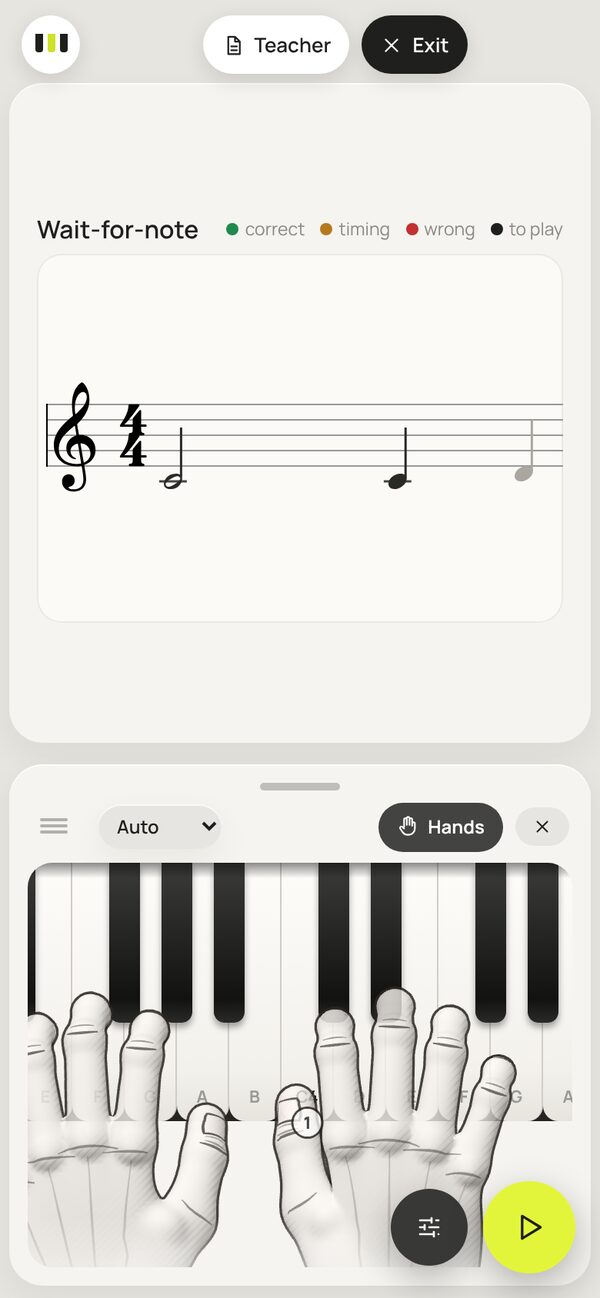
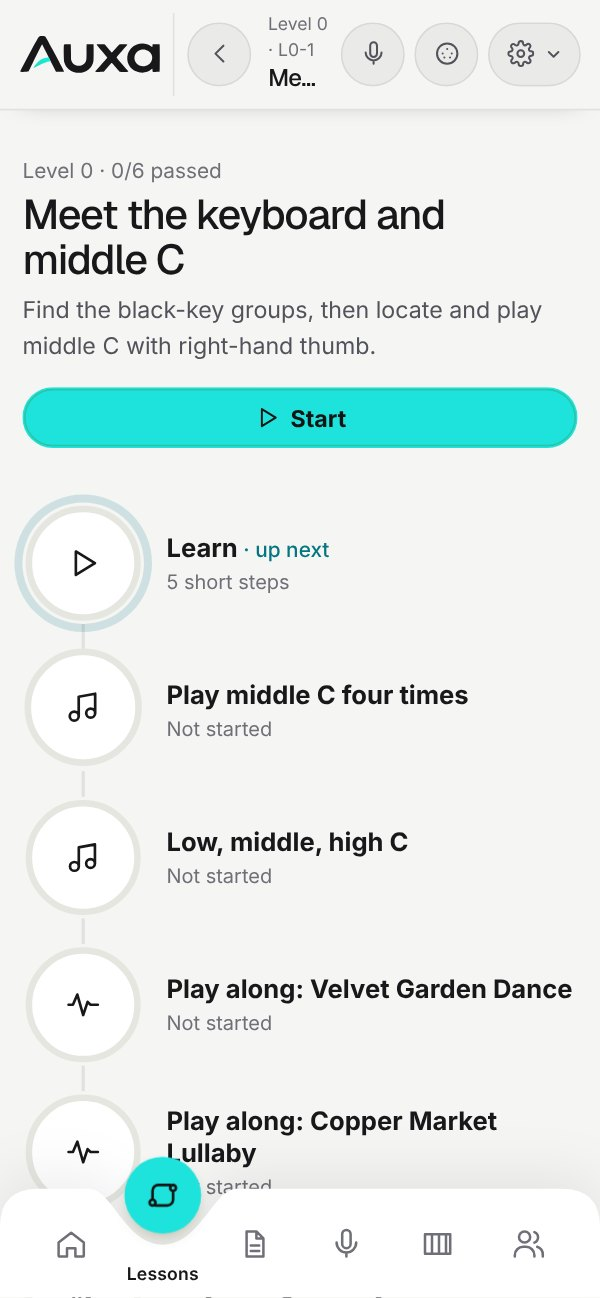
Full-width lesson hub, readable plan badges, aligned Setup, last lime colors gone, new homepage phone screens, plain-language plans
Claude-Session: https://claude.ai/code/session_01GMj1YQcUTnWEyb5PxExAgh

diff --git a/src/app-theme.css b/src/app-theme.css
@@ -471,7 +471,7 @@ html.theme-light .hub-badge { background: #2b2b2b; border-color: #f4f4f2; }
 /* ---------- the phone app's own start: onboarding, sign up, plans ---------- */
 .ob { position: fixed; inset: 0; z-index: 60; display: flex; flex-direction: column; background: radial-gradient(120% 70% at 80% 0%, rgba(30,227,220, .14), transparent 60%), var(--bg, #141414); color: var(--ink, #f2f2ef);
   padding: calc(var(--sat, 0px) + 18px) calc(var(--sar, 0px) + 22px) calc(var(--sab, 0px) + 18px) calc(var(--sal, 0px) + 22px); overflow-y: auto; }
-html.theme-light .ob { background: radial-gradient(120% 70% at 80% 0%, rgba(160, 190, 30, .18), transparent 60%), #f6f6f3; color: #141414; }
+html.theme-light .ob { background: radial-gradient(120% 70% at 80% 0%, rgba(10, 160, 170, .18), transparent 60%), #f6f6f3; color: #141414; }
 .ob-top { display: flex; align-items: center; justify-content: space-between; min-height: 40px; }
 .ob .lp-logo { display: inline-flex; align-items: center; gap: 10px; font-weight: 700; font-size: 19px; }
 .ob-skip, .ob-close, .ob-guest, .pw-fine button { background: none; border: 0; color: var(--muted); font: inherit; cursor: pointer; padding: 8px; }
@@ -525,7 +525,7 @@ html.theme-light .pw-perks li span { color: #5f7a00; }
 .pw-layer .ob { z-index: 80; }
 .ob .lp-mark { width: 30px; height: 30px; border-radius: 9px; background: #f4f4f0; display: inline-flex; gap: 2px; align-items: flex-start; justify-content: center; padding-top: 7px; box-sizing: border-box; }
 .ob .lp-mark i { width: 4px; height: 15px; border-radius: 2px; background: #141414; }
-.ob .lp-mark i:nth-child(3) { background: #9cbf00; }
+.ob .lp-mark i:nth-child(3) { background: #0a9fae; }
 html.theme-light .ob .lp-mark { background: #141414; }
 html.theme-light .ob .lp-mark i { background: #f4f4f0; }
 html.theme-light .ob .lp-mark i:nth-child(3) { background: var(--lime, #1ee3dc); }
@@ -563,7 +563,7 @@ html.theme-light .ob-art { background: rgba(255, 255, 255, .55); border-color: r
 .ob-art.keys { cursor: pointer; }
 .kb { position: absolute; left: 20px; right: 20px; bottom: 18px; top: 58px; display: flex; gap: 4px; }
 .kb .wk { flex: 1; background: linear-gradient(#fff, #ecece6); border-radius: 0 0 11px 11px; box-shadow: 0 4px 0 #c9c9bf; transition: transform .12s, background .12s, box-shadow .12s; transform-origin: top; }
-.kb .wk.down { background: linear-gradient(#e6ff6a, #c9e43c); box-shadow: 0 1px 0 #a4bd1c, 0 0 30px rgba(30,227,220, .55); transform: translateY(3px) scaleY(.985); }
+.kb .wk.down { background: linear-gradient(#8ef0ea, #1ee3dc); box-shadow: 0 1px 0 #0a9fae, 0 0 30px rgba(30,227,220, .55); transform: translateY(3px) scaleY(.985); }
 .kb .bk { position: absolute; top: 0; width: 9%; height: 58%; background: linear-gradient(#2c2c2a, #111); border-radius: 0 0 7px 7px; box-shadow: 0 3px 0 #000; z-index: 2; }
 .kb .fly { position: absolute; bottom: 40%; font-style: normal; font-size: 22px; color: var(--lime, #1ee3dc); z-index: 3; animation: obFly 1.4s ease-out forwards; text-shadow: 0 0 12px rgba(30,227,220, .6); }
 html.theme-light .kb .fly { color: #6d8a00; }
@@ -600,7 +600,7 @@ html.theme-light .wheel span.on { color: #5f7a00; }
 .stf .ln { position: absolute; left: 14px; right: 0; height: 1px; background: rgba(160, 160, 150, .45); }
 .stf .nt { position: absolute; width: 9px; height: 7px; border-radius: 50%; background: var(--lime, #1ee3dc); transform: rotate(-20deg); animation: obPop .4s cubic-bezier(.3, 1.6, .5, 1) both; }
 .stf.r1 .nt { background: #9be7da; } .stf.r2 .nt { background: #b9a8ff; } .stf.r3 .nt { background: #ffc46b; }
-html.theme-light .stf.r0 .nt { background: #7d9c00; }
+html.theme-light .stf.r0 .nt { background: #047683; }
 @keyframes obPop { from { opacity: 0; transform: rotate(-20deg) scale(0); } }
 .stf.r1, .stf.r2, .stf.r3 { animation: obWord .6s both; }
 .staffs .chip { position: absolute; right: 0; top: -26px; font-size: 11px; font-weight: 600; padding: 4px 9px; border-radius: 99px; background: var(--lime, #1ee3dc); color: #141414; animation: obPop2 .5s 1.3s cubic-bezier(.3, 1.6, .5, 1) both; }
@@ -617,7 +617,7 @@ html.theme-light .legal { background: #f6f6f3; color: #141414; }
 .legal .lp-logo { display: inline-flex; align-items: center; gap: 10px; font-weight: 700; font-size: 18px; }
 .legal .lp-mark { width: 28px; height: 28px; border-radius: 8px; background: #f4f4f0; display: inline-flex; gap: 2px; align-items: flex-start; justify-content: center; padding-top: 6px; box-sizing: border-box; }
 .legal .lp-mark i { width: 4px; height: 14px; border-radius: 2px; background: #141414; }
-.legal .lp-mark i:nth-child(3) { background: #9cbf00; }
+.legal .lp-mark i:nth-child(3) { background: #0a9fae; }
 .legal-tabs { display: flex; gap: 8px; overflow-x: auto; max-width: 760px; margin: 0 auto 22px; padding-bottom: 4px; }
 .legal-tabs a { flex: 0 0 auto; padding: 8px 14px; border-radius: 99px; border: 1px solid var(--hair); color: inherit; text-decoration: none; font-size: 14px; }
 .legal-tabs a.on { background: var(--lime, #1ee3dc); color: #141414; border-color: transparent; font-weight: 600; }
@@ -659,7 +659,7 @@ html.theme-light .strip-node.on .ring, html.theme-light .cal-day.today .cal-dot,
 html.theme-light .day.today i { box-shadow: 0 0 0 2px var(--lime-line); }
 html.theme-light .report.pass, html.theme-light .call { box-shadow: var(--shadow), 0 0 0 2px var(--lime-line) inset; }
 html.theme-light .drill-slot.now, html.theme-light .ob-choice.on, html.theme-light .drill-opt:hover:not(:disabled) { border-color: var(--lime-line); }
-html.theme-light .hub-node.next .ring, html.theme-light .pnode.next .ring { box-shadow: 0 0 0 5px rgba(127, 154, 0, .16); }
+html.theme-light .hub-node.next .ring, html.theme-light .pnode.next .ring { box-shadow: 0 0 0 5px rgba(4, 118, 131, .16); }
 html.theme-light .s2s-spin { border-top-color: var(--lime-line); }
 html.theme-light .coach-btn.on, html.theme-light .hub-badge.done { background: var(--lime); color: var(--on-lime); box-shadow: inset 0 0 0 1px rgba(0,0,0,.08); }
 /* lime buttons on white get a hairline so their edge is visible */
@@ -1015,7 +1015,7 @@ html.theme-dark .people { --pc-bg: #1f1f21; --pc-ink: #f4f4f5; --pc-ink2: #c4c4c
 
 /* wide screens: content sits in the middle instead of hugging the left edge */
 @media (min-width: 861px) {
-  .page.lesson > .hub { width: 100%; max-width: 980px; margin: clamp(10px, 5vh, 56px) auto 0; justify-items: center; text-align: center; }
+  .page.lesson > .hub { width: 100%; max-width: none; margin: clamp(10px, 5vh, 56px) auto 0; justify-items: center; text-align: center; }
   .page.lesson > .hub .hub-head { display: grid; justify-items: center; }
   .page.lesson > .hub .hub-head p { margin-inline: auto; }
   .page.lesson > .hub .hub-path { justify-content: safe center; max-width: 100%; }
@@ -1045,7 +1045,7 @@ html.theme-dark .people { --pc-bg: #1f1f21; --pc-ink: #f4f4f5; --pc-ink2: #c4c4c
 .ob-name:focus { outline: none; border-color: var(--lime, #1ee3dc); }
 .ob-build { align-items: center; text-align: center; }
 .ob-ring { width: 132px; height: 132px; border-radius: 50%; display: grid; place-items: center; position: relative; background: conic-gradient(var(--lime, #1ee3dc) var(--p), rgba(255,255,255,.08) 0); transition: background .6s; animation: obIn .5s ease both; }
-html.theme-light .ob-ring { background: conic-gradient(#8fb000 var(--p), rgba(0,0,0,.08) 0); }
+html.theme-light .ob-ring { background: conic-gradient(#0a9fae var(--p), rgba(0,0,0,.08) 0); }
 .ob-ring::before { content: ''; position: absolute; inset: 10px; border-radius: 50%; background: var(--bg1, #141414); }
 .ob-ring span { position: relative; font-size: 28px; font-weight: 700; letter-spacing: -.02em; }
 .ob-build-title { font-size: clamp(22px, 6vw, 30px) !important; }
@@ -1102,3 +1102,14 @@ html.theme-light .pi-back { background: rgba(245,245,243,.45); }
 .seg.level-grid button { display: flex; flex-direction: column; align-items: center; justify-content: center; gap: 2px; min-height: 48px; padding: 8px 10px; border-radius: 15px; font-size: 14px; font-weight: 600; color: var(--ink2); line-height: 1.2; text-align: center; }
 .seg.level-grid button small { display: inline-flex; align-items: center; gap: 4px; font-size: 11px; font-weight: 600; opacity: .7; }
 @media (max-width: 640px) { .seg.level-grid { grid-template-columns: 1fr 1fr; } }
+
+/* Plan badges on locked lessons: always readable */
+.pro-tag, html[class*=theme-] .pro-tag { background: #0b2a33 !important; color: #1ee3dc !important; border: 1px solid rgba(30,227,220,.35); }
+.pro-tag.plus, html[class*=theme-] .pro-tag.plus { background: #1ee3dc !important; color: #0b2a33 !important; border-color: transparent; }
+.lcard.locked:has(.pro-tag) .pro-tag { opacity: 1; filter: none; }
+
+/* Setup: tabs and cards share one centered column */
+@media (min-width: 861px) {
+  .setup-head, .setup-body { width: 100%; max-width: 860px; margin-inline: auto; box-sizing: border-box; }
+  .page > .setup-head, .setup-head { justify-content: space-between !important; }
+}

diff --git a/src/styles.css b/src/styles.css
@@ -62,7 +62,7 @@ select { border: 0; background: var(--white); border-radius: 999px; padding: 8px
 .id-card small { color: var(--muted); font-size: 11.5px; display: block; }
 .id-card b { font-size: 16px; font-weight: 600; display: block; line-height: 1.2; }
 .avatar { width: 62px; height: 62px; flex: none; border-radius: 18px; display: grid; place-items: center; color: var(--ink);
-  background: radial-gradient(120% 120% at 20% 10%, #fff 0, #f6f3d0 40%, #1ee3dc 100%); box-shadow: 0 6px 14px rgba(160,170,20,.25); }
+  background: radial-gradient(120% 120% at 20% 10%, #fff 0, #d9f8f6 40%, #1ee3dc 100%); box-shadow: 0 6px 14px rgba(10,160,170,.25); }
 .avatar.you { font-weight: 700; font-size: 15px; background: radial-gradient(120% 120% at 25% 15%, #fff 0, #f4e6dc 45%, #e9c8b4 100%); box-shadow: 0 6px 14px rgba(150,100,70,.2); }
 .metrics { display: flex; gap: 34px; align-items: flex-end; flex-wrap: wrap; min-width: 0; }
 .metric small { display: block; font-size: 11.5px; color: var(--muted); margin-bottom: 2px; }
@@ -267,8 +267,8 @@ div.next span { font-size: 12px; color: #cfcec8; }
 .key .mark { font-weight: 800; font-size: 15px; margin-bottom: 2px; position: relative; z-index: 4; }
 .key .kbd { font-size: 10px; color: #999; border: 1px solid #ccc; border-radius: 4px; padding: 0 3px; margin-bottom: 3px; position: relative; z-index: 4; }
 .key.black .kbd { color: #bbb; border-color: #555; }
-.key.white.target { background: linear-gradient(#fbfee0, #eef98a 70%, #1ee3dc); } .key.black.target { background: linear-gradient(#1ee3dc, #a9b81c); }
-.key.white.show { background: linear-gradient(#fdfdf0, #f2f8b8); } .key.black.show { background: linear-gradient(#b8c62a, #6f7a10); }
+.key.white.target { background: linear-gradient(#e8fdfb, #8ef0ea 70%, #1ee3dc); } .key.black.target { background: linear-gradient(#1ee3dc, #0aa5b4); }
+.key.white.show { background: linear-gradient(#f0fdfc, #c4f4f0); } .key.black.show { background: linear-gradient(#0aa5b4, #6f7a10); }
 .key.white.demo { background: linear-gradient(#e9fbf8, #99eadf); } .key.black.demo { background: linear-gradient(#2dd4bf, #0f766e); }
 .key.white.played { background: linear-gradient(#efeee9, #dddbd4); } .key.black.played { background: #555; }
 .key.white.correct { background: linear-gradient(#e7f7ec, #a8e2bd); color: var(--ok); } .key.black.correct { background: var(--ok); }
@@ -570,13 +570,13 @@ select.inst { font-size: 11.5px; padding: 2px 6px; border-radius: 8px; box-shado
 .pro-list li svg { flex-shrink: 0; margin-top: 3px; }
 .tier-grid { display: grid; grid-template-columns: repeat(auto-fit, minmax(230px, 1fr)); gap: 12px; }
 .tier { border: 1px solid var(--line, rgba(0,0,0,.1)); border-radius: 18px; padding: 14px; display: flex; flex-direction: column; gap: 10px; background: rgba(255,255,255,.5); }
-.tier.plus { border-color: #b7d94a; box-shadow: 0 0 0 1px #b7d94a inset; }
+.tier.plus { border-color: #0aa5b4; box-shadow: 0 0 0 1px #0aa5b4 inset; }
 .tier-head { display: flex; align-items: center; justify-content: space-between; font-size: 17px; }
-.tier .tag { font-size: 11px; background: #d4f06a; color: #1a1a1a; border-radius: 99px; padding: 2px 8px; }
+.tier .tag { font-size: 11px; background: #1ee3dc; color: #1a1a1a; border-radius: 99px; padding: 2px 8px; }
 .tier .pro-list { font-size: 13px; flex: 1; }
 .tier-buy { display: grid; gap: 6px; }
 .tier-buy .btn { justify-content: center; width: 100%; }
-.pro-tag.plus { background: #d4f06a; color: #1a1a1a; }
+.pro-tag.plus { background: #1ee3dc; color: #1a1a1a; }
 
 /* ---------- Landing ---------- */
 .landing { min-height: 100vh; max-width: 1120px; margin: 0 auto; padding: 18px 20px 40px; display: flex; flex-direction: column; gap: 56px; }
@@ -624,7 +624,7 @@ select.inst { font-size: 11.5px; padding: 2px 6px; border-radius: 8px; box-shado
 .auth-title { font-size: 20px; }
 .auth label { display: grid; gap: 6px; font-size: 13px; font-weight: 600; }
 .auth input { height: 46px; border-radius: 14px; border: 1px solid var(--line2); padding: 0 14px; font: inherit; font-weight: 400; font-size: 15px; background: #fff; width: 100%; box-sizing: border-box; }
-.auth input:focus { outline: 2px solid var(--lime2, #b7d94a); border-color: transparent; }
+.auth input:focus { outline: 2px solid var(--lime2, #0aa5b4); border-color: transparent; }
 .auth-pw { position: relative; display: block; }
 .auth-pw input { padding-right: 60px; }
 .auth-pw .link { position: absolute; right: 12px; top: 50%; transform: translateY(-50%); }

diff --git a/src/ui/Landing.tsx b/src/ui/Landing.tsx
@@ -7,6 +7,7 @@ import { useEffect, useRef, useState } from 'react';
 import { DashField } from './DashField';
 import { PLANS } from '../account/config';
 import { SignInForm } from './Account';
+import { PLAN_ITEMS, PLAN_WHO } from '../account/planCopy';
 import { Icon } from './Icon';
 import { useTheme, setTheme, type Theme } from './theme';
 
@@ -22,7 +23,7 @@ const FAQ: [string, string][] = [
   ['How does it hear me?', 'Your phone’s microphone. Auxa picks out the notes you play, even softly, and tells you right away which were right.'],
   ['I have never played before. Is that fine?', 'Yes. Level 0 starts with finding middle C. Every new key comes with short songs where the band plays and you add just that key.'],
   ['Can I learn to sing too?', 'Yes. The singing coach starts gentle and encouraging, and gets strict about pitch only when you ask it to.'],
-  ['What is free?', `Levels 0 to 2, the beginner songs and the Easy singing coach. Pro is ${price('pro') || 'monthly'}, or ${price('pass_pro') || 'a monthly pass'} by mobile money.`],
+  ['What is free?', `Everything you need to start: the basics, beginner songs and the Easy singing coach. Pro is ${price('pro') || 'monthly'}, or ${price('pass_pro') || 'a monthly pass'} by mobile money.`],
   ['Can I pay with Orange Money or Afrimoney?', 'Yes. Mobile money buys a one-month pass that never renews by itself. Cards renew monthly and you can cancel any time.'],
   ['Does it work offline?', 'Once opened, lessons keep working without data. Your progress syncs when you are back online.'],
 ];
@@ -89,9 +90,9 @@ export function Landing({ onStart, returning = false }: { onStart: () => void; r
           <h2>Start free. <em>Grow</em> when ready.</h2>
         </div>
         <div className="lp-plans">
-          <Plan name="Free" price="SLE 0" note="For good" items={['Levels 0 to 2', 'Beginner songs', 'Easy singing coach']} onPick={start} cta="Start free" />
-          <Plan name="Pro" price={price('pro')} note={`or ${price('pass_pro')} a month by mobile money`} items={['Levels 3 to 6', 'Every song', 'Standard singing coach', 'Progress on all devices']} onPick={() => setAuth('signup')} cta="Get Pro" />
-          <Plan name="Plus" price={price('plus')} note={`or ${price('pass_plus')} a month by mobile money`} items={['Everything in Pro', 'Levels 7 to 9', 'Pro singing coach', 'Your own scores and choir parts']} onPick={() => setAuth('signup')} cta="Get Plus" best />
+          <Plan name="Free" price="SLE 0" note="Free for good" who={PLAN_WHO.free} items={PLAN_ITEMS.free} onPick={start} cta="Start free" />
+          <Plan name="Pro" price={price('pro')} note={`or ${price('pass_pro')} a month by mobile money`} who={PLAN_WHO.pro} items={PLAN_ITEMS.pro} onPick={() => setAuth('signup')} cta="Get Pro" />
+          <Plan name="Plus" price={price('plus')} note={`or ${price('pass_plus')} a month by mobile money`} who={PLAN_WHO.plus} items={PLAN_ITEMS.plus} onPick={() => setAuth('signup')} cta="Get Plus" best />
         </div>
       </section>
 
@@ -206,12 +207,13 @@ function Step({ n, kicker, title, text, screen }: { n: string; kicker: string; t
   );
 }
 
-function Plan({ name, price: p, note, items, onPick, cta, best }: { name: string; price: string; note: string; items: string[]; onPick: () => void; cta: string; best?: boolean }) {
+function Plan({ name, price: p, note, who, items, onPick, cta, best }: { name: string; price: string; note: string; who: string; items: readonly string[]; onPick: () => void; cta: string; best?: boolean }) {
   return (
     <div className={`lp-plan ${best ? 'best' : ''}`}>
       <div className="lp-plan-top"><b>{name}</b>{best && <span className="lp-tag">Everything</span>}</div>
       <div className="lp-price">{p}</div>
       <small>{note}</small>
+      <p className="lp-plan-who">{who}</p>
       <ul>{items.map((x) => <li key={x}><Icon name="check" size={14} />{x}</li>)}</ul>
       <button className={`lp-btn ${best ? 'light' : 'ghost'}`} onClick={onPick}>{cta}</button>
     </div>

diff --git a/src/ui/Account.tsx b/src/ui/Account.tsx
@@ -9,6 +9,7 @@ import {
   adminGrant, adminPayments, adminSearch, adminSetRole, authMessage, closeUpgrade, endRecovery, openBillingPortal, openUpgrade, refreshProfile,
   deleteAccount, sendPasswordReset, signInWithEmail, signInWithGoogle, signInWithPassword, signOut, signUp, startCheckout, updatePassword, useAccount, useUpgrade, type Profile,
 } from '../account/store';
+import { FREE_LINE, PLAN_ITEMS } from '../account/planCopy';
 import { Icon } from './Icon';
 
 const fmtDate = (s: string | null) => (s ? new Date(s).toLocaleDateString(undefined, { day: 'numeric', month: 'short', year: 'numeric' }) : '');
@@ -184,10 +185,7 @@ export function AccountSheet({ onClose }: { onClose: () => void }) {
   );
 }
 
-export const PERKS: Record<'pro' | 'plus', string[]> = {
-  pro: ['Levels 3 to 6: two hands, rhythm, keys and scales, chords', 'The church musician path: hymns in four parts, chord symbols, keyboard and organ', 'The whole song library', 'Standard singing coach', 'Progress saved on all your devices'],
-  plus: ['Everything in Pro', 'Levels 7 to 12: sight-reading, play by ear, jazz, arranging', 'Strict and Pro singing coach, Sing to score in four parts', 'Your own MusicXML and choir (SATB) scores', 'Classes for teachers: assign lessons and follow every learner'],
-};
+export const PERKS: Record<'pro' | 'plus', readonly string[]> = { pro: PLAN_ITEMS.pro, plus: PLAN_ITEMS.plus };
 
 /** The paywall: Pro and Plus, each by card (Stripe, renews monthly) or mobile money (Monime, 1-month pass). */
 export function UpgradeSheet() {
@@ -226,7 +224,7 @@ export function UpgradeSheet() {
           })}
         </div>
         {err && <p className="err small">{err}</p>}
-        <p className="muted small">{a.user ? 'Card plans renew monthly and can be cancelled any time. Mobile money passes last 1 month and never auto-renew.' : 'Sign in first, then pick a plan.'} Levels 0 to 2, beginner songs and Easy singing stay free.</p>
+        <p className="muted small">{a.user ? 'Card plans renew monthly and can be cancelled any time. Mobile money passes last 1 month and never auto-renew.' : 'Sign in first, then pick a plan.'} {FREE_LINE}</p>
       </div>
     </div>
   );

diff --git a/src/ui/AppFlow.tsx b/src/ui/AppFlow.tsx
@@ -8,6 +8,7 @@ import { ACCOUNTS_ENABLED, MONIME_ENABLED, PLANS, type PlanOption } from '../acc
 import { TIER_NAME } from '../account/gate';
 import { closeUpgrade, refreshProfile, startCheckout, useAccount } from '../account/store';
 import { PERKS, SignInForm } from './Account';
+import { FREE_LINE } from '../account/planCopy';
 import { Icon } from './Icon';
 import { setGuest } from './Landing';
 import { INTEREST_LABEL, INTEREST_TRACK, saveProfile, type Experience, type Interest } from './learnerProfile';
@@ -326,7 +327,7 @@ export function Paywall({ reason, onClose }: { reason?: string | null; onClose: 
       </div>
       <div className="ob-foot col">
         <button className="btn ghost ob-free" onClick={onClose}>Continue with Free</button>
-        <p className="pw-fine">Free always includes Levels 0 to 2, beginner songs and Easy singing. Monthly plans renew until cancelled; passes never renew. <button onClick={() => void restore()} disabled={busy === 'restore'}>{busy === 'restore' ? 'Checking…' : 'Restore purchases'}</button> · <a href="#/terms">Terms</a> · <a href="#/privacy">Privacy</a> · <a href="#/subscriptions">Subscriptions and refunds</a></p>
+        <p className="pw-fine">{FREE_LINE} Monthly plans renew until cancelled; passes never renew. <button onClick={() => void restore()} disabled={busy === 'restore'}>{busy === 'restore' ? 'Checking…' : 'Restore purchases'}</button> · <a href="#/terms">Terms</a> · <a href="#/privacy">Privacy</a> · <a href="#/subscriptions">Subscriptions and refunds</a></p>
       </div>
     </div>
   );

diff --git a/src/account/planCopy.ts b/src/account/planCopy.ts
@@ -1,0 +1,32 @@
+// What each plan gives, in plain words: what you will be able to play, not level numbers.
+export const PLAN_WHO = {
+  free: 'Start from zero and play your first songs.',
+  pro: 'For playing real music with both hands, in church or anywhere.',
+  plus: 'For musicians who want to play anything they hear.',
+} as const;
+
+export const PLAN_ITEMS = {
+  free: [
+    'Find your way around the keys and read your first notes',
+    'Play simple melodies with each hand',
+    'Beginner songs with a coach that listens',
+    'Sing in tune with the Easy singing coach',
+  ],
+  pro: [
+    'Play with both hands: melody on top, chords underneath',
+    'Rhythm, keys, scales and the chords behind the songs you know',
+    'Accompany hymns and congregational singing',
+    'The full song library, with play-along backing',
+    'A sharper singing coach, and progress saved on every device',
+  ],
+  plus: [
+    'Everything in Pro',
+    'Play songs by ear, without sheet music, in any key',
+    'Jazz, blues, gospel, Latin, highlife and Afrobeat styles',
+    'Expressive touch, pedaling and advanced technique',
+    'Sight-read and arrange for choir: soprano, alto, tenor, bass',
+    'The strictest singing coach, your own scores, and classes for teachers',
+  ],
+} as const;
+
+export const FREE_LINE = 'Learning the basics, beginner songs and the Easy singing coach stay free.';

diff --git a/src/ui/route.ts b/src/ui/route.ts
@@ -1,8 +1,9 @@
 // Where you are in the app, kept for this browser tab so a refresh lands in the same place.
 const KEY = 'auxa.route';
 export interface Route { tab: string; lesson: string | null }
+const TABS = ['home', 'learn', 'music', 'voice', 'studio', 'people', 'settings', 'admin'];
 export function readRoute(): Route | null {
-  try { const r = JSON.parse(sessionStorage.getItem(KEY) ?? 'null'); return r && typeof r.tab === 'string' ? r : null; } catch { return null; }
+  try { const r = JSON.parse(sessionStorage.getItem(KEY) ?? 'null'); return r && TABS.includes(r.tab) ? r : null; } catch { return null; }
 }
 export function writeRoute(r: Route) { try { sessionStorage.setItem(KEY, JSON.stringify(r)); } catch { /* private mode */ } }
 

diff --git a/src/hands3d/render.ts b/src/hands3d/render.ts
@@ -70,7 +70,7 @@ function geometries() {
 // ---------- materials ----------
 class Materials {
   readonly u = {
-    uOutline: { value: 0.9 }, uStroke: { value: 0.45 }, uHi: { value: new Array(17).fill(0) }, uHiColor: { value: new THREE.Color('#d7f23a') },
+    uOutline: { value: 0.9 }, uStroke: { value: 0.45 }, uHi: { value: new Array(17).fill(0) }, uHiColor: { value: new THREE.Color('#1ee3dc') },
     uFix: { value: new Array(17).fill(0) }, uFixColor: { value: new THREE.Color('#ff8a3d') }, uHatchPx: { value: 5 },
   };
   readonly depth = new THREE.MeshBasicMaterial({ colorWrite: false });

diff --git a/src/landing.css b/src/landing.css
@@ -253,3 +253,5 @@
 @media (prefers-reduced-motion: reduce) { .lp-dev, .lp-glass { animation: none; } }
 .lp.dark .lp-glass { background: linear-gradient(135deg, rgba(40,40,44,.62), rgba(20,20,22,.42)); border-color: rgba(255,255,255,.22); }
 .lp.dark .lg-alert-btns, .lp.dark .lg-alert-btns span + span { border-color: rgba(255,255,255,.16); }
+.lp-plan-who { margin: 6px 0 2px; font-size: 15px; line-height: 1.4; font-weight: 500; color: inherit; }
+.lp-plan ul { align-content: start; justify-content: start; }

diff --git a/src/ui/Legal.tsx b/src/ui/Legal.tsx
@@ -107,7 +107,7 @@ function Subscriptions() {
     <>
       <h3>Plans</h3>
       <ul>
-        <li><b>Free:</b> Levels 0 to 2, beginner songs and Easy singing, always free.</li>
+        <li><b>Free:</b> the basics (Levels 0 to 2), beginner songs and Easy singing, always free.</li>
         <li><b>Pro</b> and <b>Plus:</b> more levels, the full song library and stricter singing coaches. What each includes is shown on the plans page before you pay.</li>
       </ul>
       <h3>Card plans (monthly)</h3>
